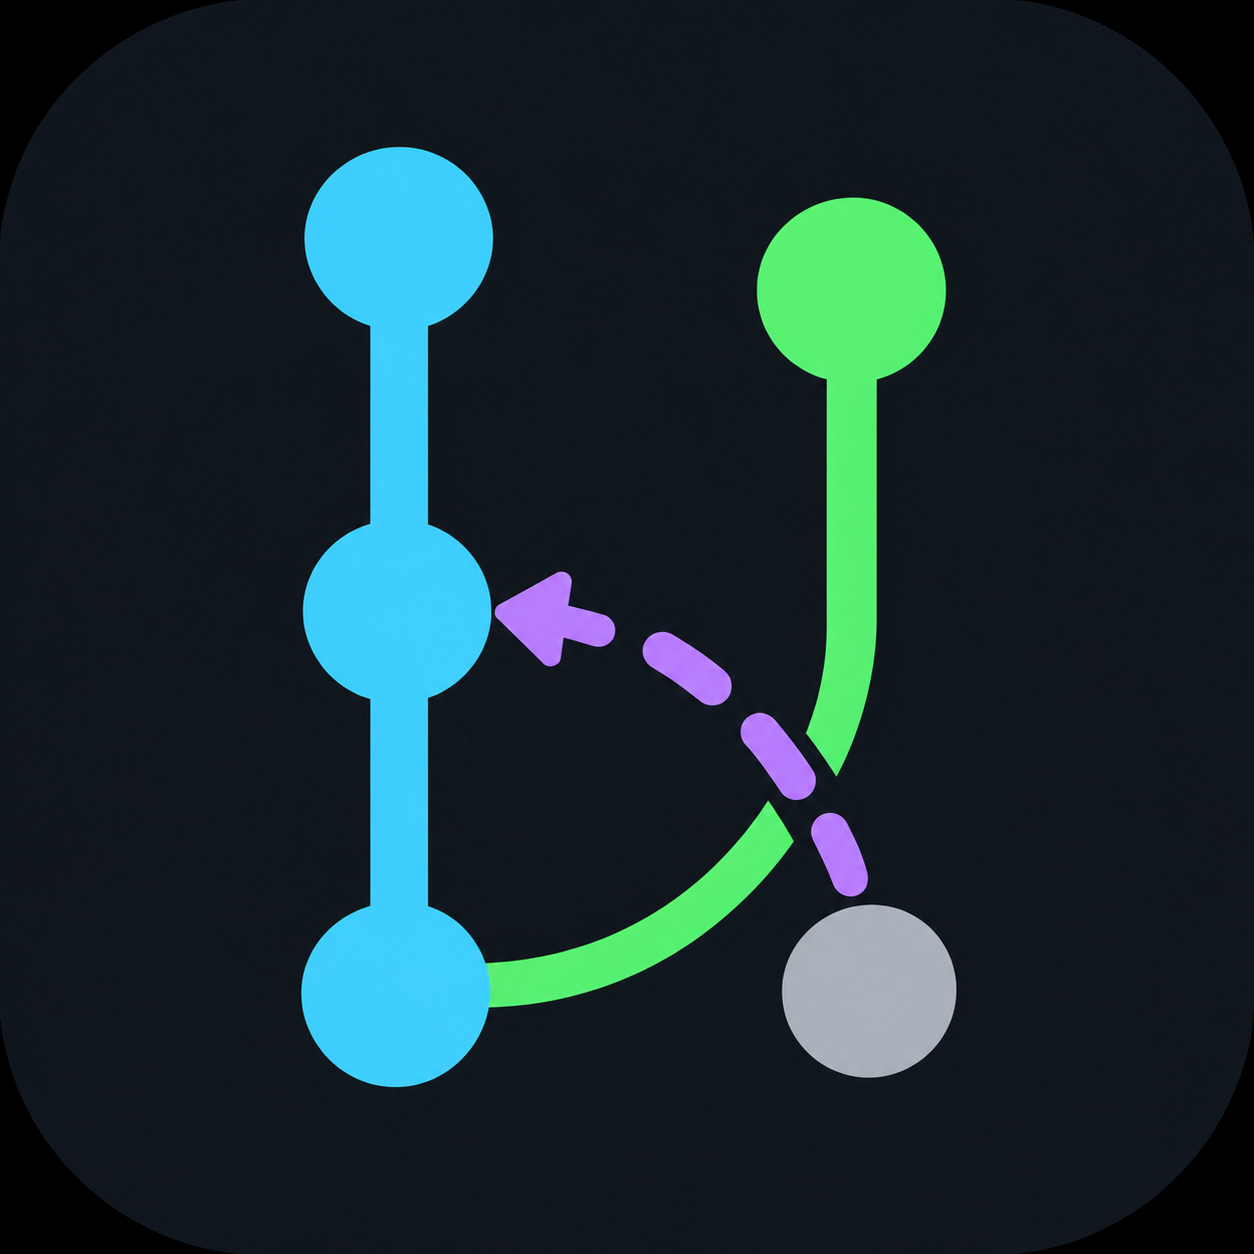
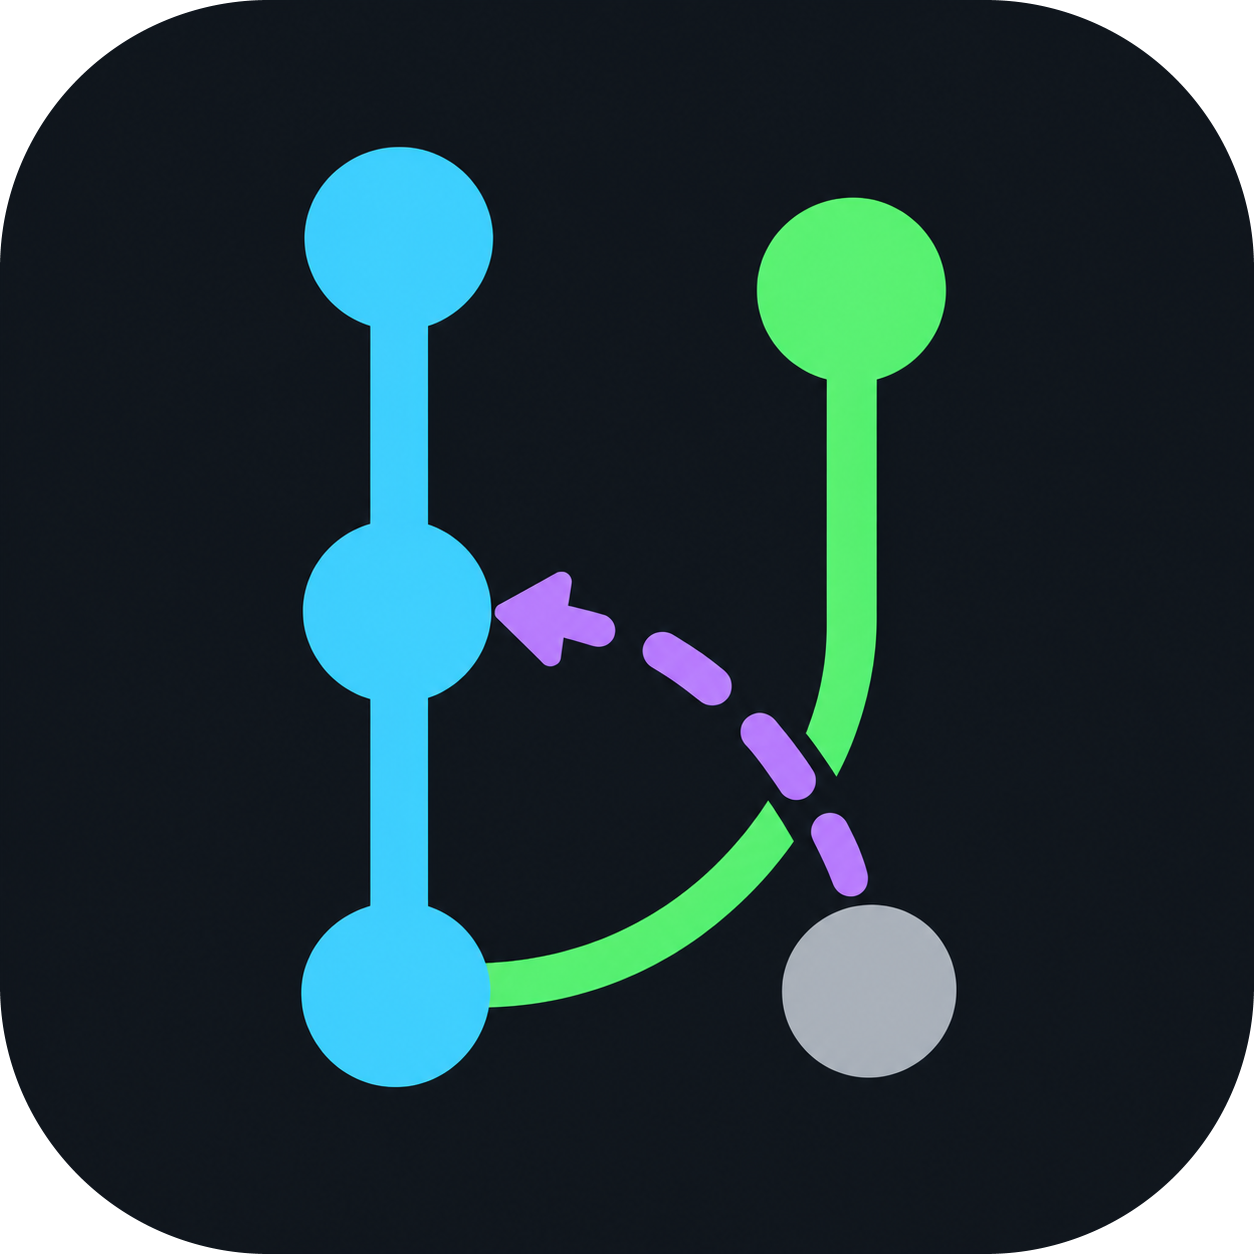
fix: アイコンの角丸の外側を透明化

diff --git a/docs/design/icon-v1.md b/docs/design/icon-v1.md
@@ -1,6 +1,6 @@
 # Git Lines icon — 採用案 v1
 
-`resources/icon-v1.png` は組み込み image_gen で生成・背景調整し、ユーザーが採用した1254×1254pxのPNG。Marketplace用の拡張アイコンとしてpackage.jsonから参照する。修正時は原稿を残し、次のversionの画像へ更新する。
+`resources/icon-v1.png` は組み込み image_gen で生成・背景調整し、ユーザーが採用した1254×1254pxのPNG。ユーザーの了承を受けてPNGの透明度を直接補正し、角丸の外側を透明化した。Marketplace用の拡張アイコンとしてpackage.jsonから参照する。デザイン変更時は原稿を残し、次のversionの画像へ更新する。
 
 - シアンの実線と3つのcommit点：現在の履歴の主レーン
 - 緑の分岐：Gitのparent関係を持つbranch
@@ -9,7 +9,13 @@
 
 Panel container用の小さな単色アイコンは `resources/git-lines.svg` を使う。
 
-背景調整前の比較用画像は `icon-v1-original.png` に保存。design資料はVSIXへ含めない。
+背景調整前の比較用画像は `icon-v1-original.png`、透明度補正前の採用画像は `icon-v1-opaque.png` に保存。design資料はVSIXへ含めない。
+
+## PNG transparency correction
+
+Pillowで元画像と同じ寸法の角丸マスク（半径268px）を8倍解像度で作成し、BOXフィルターで縮小してアルファチャンネルへ適用した。輪郭は元画像の暗色タイルの内側に収め、境界をアンチエイリアス処理した。全画素のRGB値、画像寸法、シンボルの位置と不透明度は維持している。
+
+保存後のPNGを再読込し、完全透明60,800画素、境界の半透明1,820画素、不透明1,509,896画素を確認した。四隅の64×64px領域はすべてアルファ0。白背景・暗色背景へ合成した320px／128px表示でも輪郭を確認した。
 
 ## Generation prompt
 
